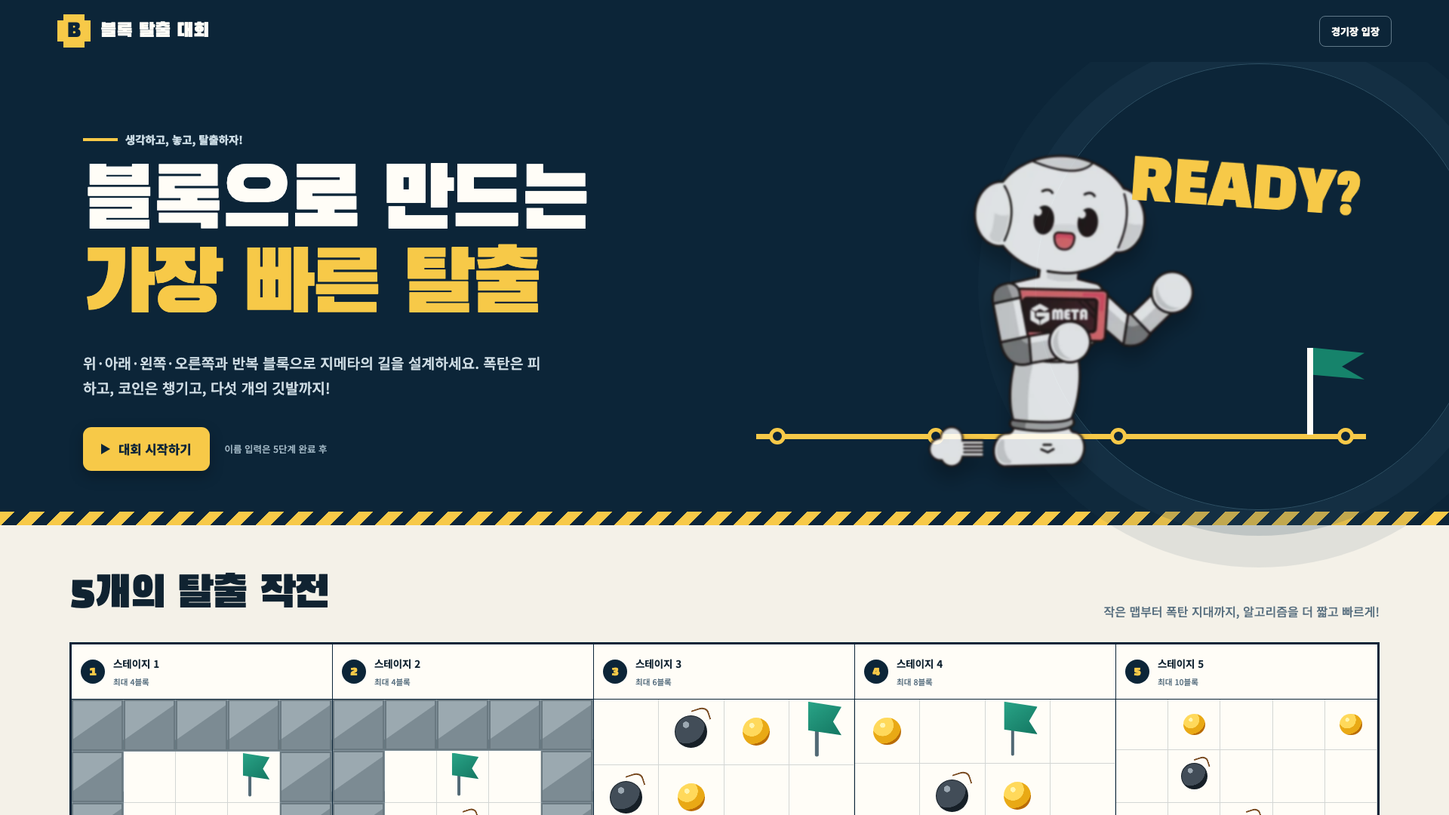
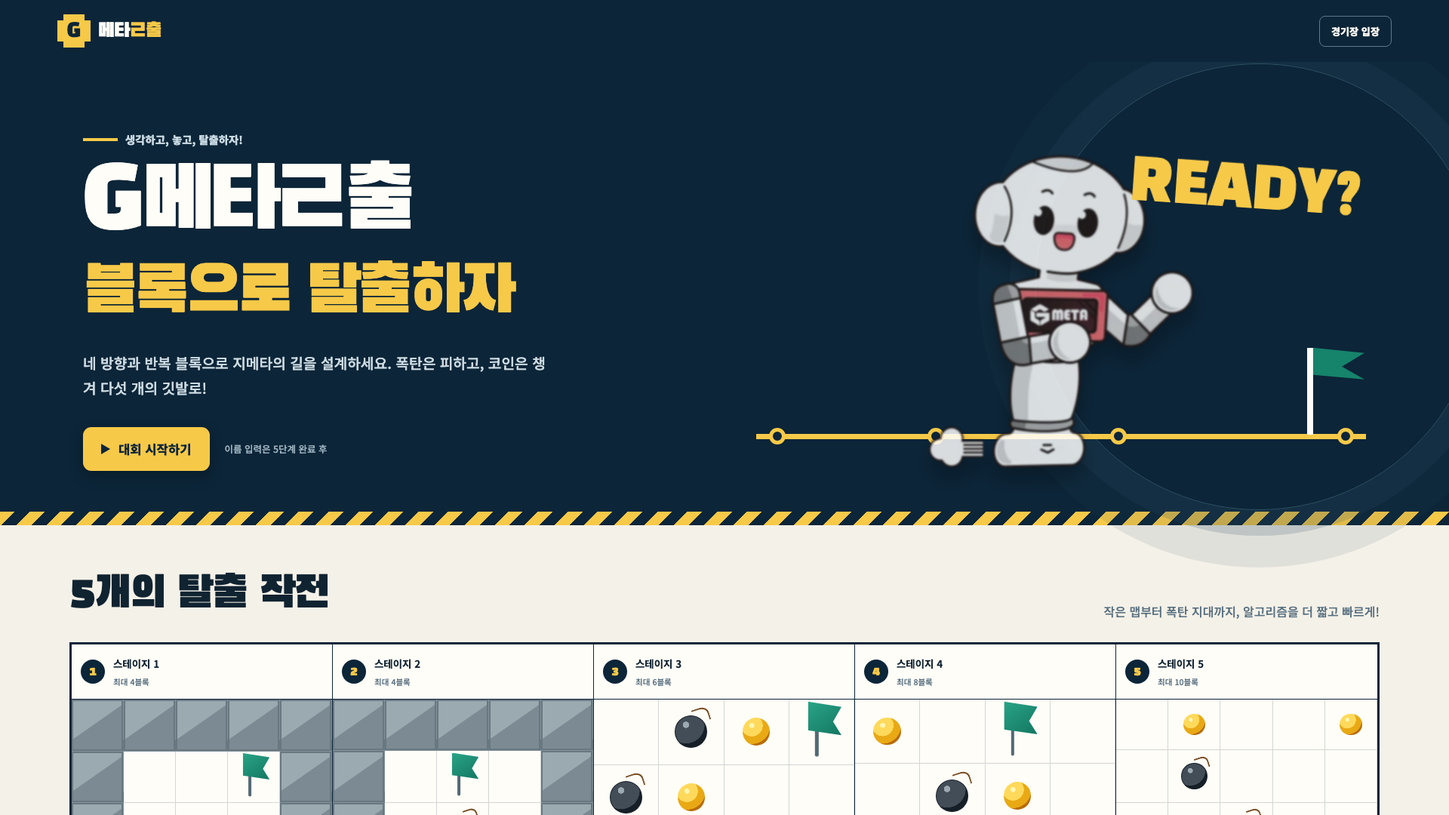
Rename game to G메타ㄹ출

diff --git a/public/home.css b/public/home.css
@@ -4,8 +4,8 @@
 @font-face{font-family:"Noto Sans KR";src:url("/fonts/noto-sans-kr-800.ttf") format("truetype");font-weight:800;font-display:swap}
 :root{--navy:#0c2538;--paper:#f4f1e8;--white:#fffdf7;--yellow:#f7c948;--coral:#e7523e;--blue:#2b78c5;--green:#16836b;--ink:#102331;--muted:#597080;--steel:#83929a;--line:#b9c3c7}
 *{box-sizing:border-box}html{background:var(--navy)}body{margin:0;min-height:100vh;overflow-x:hidden;background:var(--paper);color:var(--ink);font-family:"Noto Sans KR",sans-serif}a{color:inherit}a:focus-visible{outline:4px solid #55b7ff;outline-offset:4px}
-.home-header{height:82px;display:flex;align-items:center;justify-content:space-between;padding:0 clamp(22px,5vw,76px);background:var(--navy);color:var(--white)}.home-brand{display:flex;align-items:center;gap:13px;text-decoration:none;font:400 clamp(1.15rem,2vw,1.6rem) "Black Han Sans",sans-serif}.home-mark{display:grid;place-items:center;width:44px;height:44px;background:var(--yellow);color:var(--navy);clip-path:polygon(0 8px,8px 8px,8px 0,36px 0,36px 8px,44px 8px,44px 36px,36px 36px,36px 44px,8px 44px,8px 36px,0 36px)}.header-actions{display:flex;align-items:center;gap:10px}.header-link{padding:10px 15px;border:1px solid #617989;border-radius:8px;text-decoration:none;font-size:.82rem;font-weight:800;transition:background .16s ease,transform .16s ease}.header-link:hover{background:#173d55;transform:translateY(-1px)}.ranking-link{border-color:var(--yellow);color:var(--yellow)}
-main{overflow:hidden}.hero{position:relative;min-height:555px;display:grid;grid-template-columns:minmax(0,1.05fr) minmax(360px,.95fr);align-items:center;padding:clamp(50px,7vw,92px) clamp(24px,7vw,110px) 72px;background:var(--navy);color:var(--white);isolation:isolate}.hero::after{content:"";position:absolute;z-index:-1;inset:auto 0 0;height:18px;background:repeating-linear-gradient(135deg,var(--yellow) 0 14px,var(--navy) 14px 28px)}.hero-copy{position:relative;z-index:2;max-width:740px}.hero-line{display:flex;align-items:center;gap:10px;margin:0 0 20px;color:#c8d9e2;font-size:.9rem;font-weight:800}.hero-line span{width:46px;height:4px;background:var(--yellow)}h1{max-width:780px;margin:0;font:400 clamp(3.5rem,7.2vw,7.1rem)/.98 "Black Han Sans",sans-serif;letter-spacing:-.035em;text-wrap:balance}h1 em{color:var(--yellow);font-style:normal}.hero-description{max-width:620px;margin:27px 0 0;color:#ccdae2;font-size:clamp(1rem,1.5vw,1.2rem);line-height:1.75}.hero-actions{display:flex;align-items:center;gap:20px;margin-top:34px}.start-button{display:inline-flex;align-items:center;gap:11px;min-height:58px;padding:0 24px;border-radius:11px;background:var(--yellow);color:var(--navy);text-decoration:none;font-size:1.04rem;font-weight:900;box-shadow:0 7px 18px rgba(0,0,0,.25);transition:transform .18s cubic-bezier(.16,1,.3,1),filter .18s ease,box-shadow .18s ease}.start-button:hover{transform:translateY(-3px);filter:brightness(1.05);box-shadow:0 11px 25px rgba(0,0,0,.28)}.play-icon{width:0;height:0;border-top:7px solid transparent;border-bottom:7px solid transparent;border-left:12px solid currentColor}.start-note{color:#9fb5c2;font-size:.78rem}
+.home-header{height:82px;display:flex;align-items:center;justify-content:space-between;padding:0 clamp(22px,5vw,76px);background:var(--navy);color:var(--white)}.home-brand{display:flex;align-items:center;gap:10px;text-decoration:none;font:400 clamp(1.15rem,2vw,1.6rem) "Black Han Sans",sans-serif}.home-mark{display:grid;place-items:center;width:44px;height:44px;background:var(--yellow);color:var(--navy);clip-path:polygon(0 8px,8px 8px,8px 0,36px 0,36px 8px,44px 8px,44px 36px,36px 36px,36px 44px,8px 44px,8px 36px,0 36px)}.brand-wordmark{white-space:nowrap}.brand-wordmark em{color:var(--yellow);font-style:normal}.header-actions{display:flex;align-items:center;gap:10px}.header-link{padding:10px 15px;border:1px solid #617989;border-radius:8px;text-decoration:none;font-size:.82rem;font-weight:800;transition:background .16s ease,transform .16s ease}.header-link:hover{background:#173d55;transform:translateY(-1px)}.ranking-link{border-color:var(--yellow);color:var(--yellow)}
+main{overflow:hidden}.hero{position:relative;min-height:555px;display:grid;grid-template-columns:minmax(0,1.05fr) minmax(360px,.95fr);align-items:center;padding:clamp(50px,7vw,92px) clamp(24px,7vw,110px) 72px;background:var(--navy);color:var(--white);isolation:isolate}.hero::after{content:"";position:absolute;z-index:-1;inset:auto 0 0;height:18px;background:repeating-linear-gradient(135deg,var(--yellow) 0 14px,var(--navy) 14px 28px)}.hero-copy{position:relative;z-index:2;max-width:740px}.hero-line{display:flex;align-items:center;gap:10px;margin:0 0 20px;color:#c8d9e2;font-size:.9rem;font-weight:800}.hero-line span{width:46px;height:4px;background:var(--yellow)}h1{max-width:780px;margin:0;font:400 clamp(3.5rem,7.2vw,7.1rem)/.98 "Black Han Sans",sans-serif;letter-spacing:-.035em;text-wrap:balance}h1 em{color:var(--yellow);font-style:normal}.hero-tagline{display:inline-block;font-size:.76em;white-space:nowrap}.hero-description{max-width:620px;margin:27px 0 0;color:#ccdae2;font-size:clamp(1rem,1.5vw,1.2rem);line-height:1.75}.hero-actions{display:flex;align-items:center;gap:20px;margin-top:34px}.start-button{display:inline-flex;align-items:center;gap:11px;min-height:58px;padding:0 24px;border-radius:11px;background:var(--yellow);color:var(--navy);text-decoration:none;font-size:1.04rem;font-weight:900;box-shadow:0 7px 18px rgba(0,0,0,.25);transition:transform .18s cubic-bezier(.16,1,.3,1),filter .18s ease,box-shadow .18s ease}.start-button:hover{transform:translateY(-3px);filter:brightness(1.05);box-shadow:0 11px 25px rgba(0,0,0,.28)}.play-icon{width:0;height:0;border-top:7px solid transparent;border-bottom:7px solid transparent;border-left:12px solid currentColor}.start-note{color:#9fb5c2;font-size:.78rem}
 .partner-strip{display:flex;align-items:center;justify-content:center;gap:clamp(24px,4vw,58px);min-height:112px;padding:18px clamp(24px,6vw,92px);border-bottom:1px solid var(--line);background:var(--white)}.partner-strip>p{flex:0 0 auto;margin:0;color:var(--muted);font-size:.74rem;font-weight:800;letter-spacing:.12em}.partner-logos{display:flex;align-items:center;justify-content:center;gap:clamp(18px,2.4vw,38px);min-width:0}.partner-logos img{display:block;width:auto;max-width:min(21vw,250px);height:48px;object-fit:contain}.partner-logos img:nth-of-type(2){height:43px}.partner-logos img:nth-of-type(3){height:46px}.partner-logos span{width:1px;height:36px;background:var(--line)}
 .hero-visual{position:relative;align-self:stretch;display:grid;place-items:end center;min-height:410px}.hero-visual::before{content:"";position:absolute;right:-8vw;top:-90px;width:min(42vw,590px);aspect-ratio:1;border:1px solid #2e5064;border-radius:50%;box-shadow:0 0 0 34px rgba(46,80,100,.18),0 0 0 76px rgba(46,80,100,.1)}.hero-visual img{position:relative;z-index:2;width:min(100%,430px);max-height:430px;object-fit:contain;filter:drop-shadow(0 18px 12px rgba(0,0,0,.28));animation:ready 2.4s cubic-bezier(.16,1,.3,1) both}.hero-visual>p{position:absolute;z-index:3;right:1%;top:7%;margin:0;color:var(--yellow);font:400 clamp(2.2rem,5vw,4.8rem) "Black Han Sans",sans-serif;transform:rotate(4deg)}.route-line{position:absolute;z-index:1;bottom:42px;left:0;right:0;height:7px;background:var(--yellow)}.route-line i{position:absolute;top:50%;width:22px;height:22px;border:5px solid var(--yellow);border-radius:50%;background:var(--navy);transform:translateY(-50%)}.route-line i:nth-child(1){left:2%}.route-line i:nth-child(2){left:28%}.route-line i:nth-child(3){left:58%}.route-line i:nth-child(4){right:2%}.flag-sign{position:absolute;z-index:3;right:0;bottom:48px;width:78px;height:115px;border-left:8px solid var(--white)}.flag-sign span{position:absolute;left:0;top:0;width:68px;height:50px;background:var(--green);clip-path:polygon(0 0,100% 14%,56% 50%,100% 84%,0 72%)}
 .stage-rail{padding:56px clamp(24px,6vw,92px) 64px;background:var(--paper)}.rail-heading{display:flex;align-items:end;justify-content:space-between;gap:30px;margin-bottom:27px}.rail-heading h2{margin:0;font:400 clamp(2rem,3.8vw,3.6rem) "Black Han Sans",sans-serif;letter-spacing:-.025em}.rail-heading p{max-width:440px;margin:0;color:var(--muted);line-height:1.6}.stage-previews{display:grid;grid-template-columns:repeat(5,1fr);gap:0;margin:0;padding:0;list-style:none;border:3px solid var(--navy);background:var(--navy)}.stage-ticket{min-width:0;background:var(--white);border-right:1px solid var(--navy)}.stage-ticket:last-child{border-right:0}.ticket-label{display:grid;grid-template-columns:34px 1fr;grid-template-rows:auto auto;align-items:center;gap:0 9px;min-height:72px;padding:12px}.ticket-label>span{grid-row:1/3;display:grid;place-items:center;width:32px;height:32px;border-radius:50%;background:var(--navy);color:var(--yellow);font-family:"Black Han Sans"}.ticket-label strong{font-size:.84rem}.ticket-label small{color:var(--muted);font-size:.66rem}.mini-grid{--cols:5;display:grid;grid-template-columns:repeat(var(--cols),1fr);aspect-ratio:1;background:#dbe2df;border-top:1px solid var(--navy)}.mini-cell{position:relative;display:grid;place-items:center;background:#fffdf7;border-right:1px solid rgba(12,37,56,.18);border-bottom:1px solid rgba(12,37,56,.18)}.mini-cell.wall{background:var(--steel);box-shadow:inset 0 0 0 2px #6e7b82}.mini-cell.bomb::after{content:"";width:48%;height:48%;border-radius:50%;background:var(--coral)}.mini-cell.coin::after{content:"";width:43%;height:43%;border-radius:50%;background:var(--yellow);border:2px solid #c3820e}.mini-cell.flag::after{content:"";width:52%;height:63%;background:var(--green);clip-path:polygon(0 0,100% 15%,52% 49%,17% 42%,17% 100%,0 100%)}.mini-cell.start::after{content:"";width:55%;height:55%;border-radius:50%;background:var(--blue);box-shadow:inset 0 0 0 3px var(--white)}
@@ -13,7 +13,7 @@ main{overflow:hidden}.hero{position:relative;min-height:555px;display:grid;grid-
 footer{display:flex;justify-content:space-between;align-items:center;padding:24px clamp(24px,6vw,92px);background:var(--navy);color:#b9cbd5;font-size:.78rem}footer a{color:var(--yellow);font-weight:900;text-decoration:none}
 @keyframes ready{0%{opacity:0;transform:translateY(24px) scale(.97);filter:blur(8px) drop-shadow(0 18px 12px rgba(0,0,0,.28))}100%{opacity:1;transform:none;filter:blur(0) drop-shadow(0 18px 12px rgba(0,0,0,.28))}}
 @media(max-width:980px){.hero{grid-template-columns:1fr minmax(280px,.7fr);padding-inline:40px}.stage-previews{grid-template-columns:repeat(3,1fr)}.stage-ticket:nth-child(3){border-right:0}.stage-ticket:nth-child(n+4){border-top:1px solid var(--navy)}.rules{grid-template-columns:repeat(2,1fr)}.rules>div:nth-child(2){border-right:0}.rules>div:nth-child(n+3){border-top:1px solid var(--line)}}
-@media(max-width:680px){.home-header{height:68px;padding-inline:18px}.home-brand{font-size:1.05rem}.home-mark{width:38px;height:38px}.header-link{display:none}.hero{min-height:auto;display:flex;flex-direction:column;padding:48px 22px 52px}.hero-copy{width:100%;min-width:0}.hero-line{font-size:.78rem}h1{font-size:clamp(2.5rem,10.5vw,3rem);line-height:1.02}.hero-description{max-width:100%;font-size:.88rem;word-break:keep-all;overflow-wrap:anywhere}.hero-actions{align-items:flex-start;flex-direction:column;gap:12px}.hero-visual{width:100%;min-height:300px;margin-top:20px}.hero-visual img{width:min(82%,310px);max-height:290px}.hero-visual::before{right:-28vw;top:-20px;width:110vw}.hero-visual>p{right:6%;top:8%;font-size:1.9rem}.flag-sign{right:2%;height:88px;width:60px}.flag-sign span{width:52px;height:40px}.partner-strip{display:block;padding:20px 18px}.partner-strip>p{margin-bottom:14px;text-align:center}.partner-logos{gap:10px}.partner-logos img{max-width:29%;height:30px}.partner-logos img:nth-of-type(2){height:27px}.partner-logos img:nth-of-type(3){height:29px}.partner-logos span{height:26px}.stage-rail{padding:42px 18px}.rail-heading{display:block}.rail-heading p{margin-top:8px;font-size:.84rem}.stage-previews{grid-template-columns:repeat(2,1fr)}.stage-ticket:nth-child(2){border-right:0}.stage-ticket:nth-child(3){border-right:1px solid var(--navy)}.stage-ticket:nth-child(n+3){border-top:1px solid var(--navy)}.stage-ticket:nth-child(4){border-right:0}.stage-ticket:last-child{grid-column:1/-1;border-right:0}.stage-ticket:last-child .mini-grid{max-width:50%;margin:auto;border-left:1px solid var(--navy);border-right:1px solid var(--navy)}.rules{grid-template-columns:1fr;padding-inline:18px}.rules>div,.rules>div:first-child{border-left:0;border-right:0;border-top:1px solid var(--line)}.rules>div:first-child{border-top:0}footer{padding-inline:18px}}
+@media(max-width:680px){.home-header{height:68px;padding-inline:18px}.home-brand{font-size:1.05rem}.home-mark{width:38px;height:38px}.header-link{display:none}.hero{min-height:auto;display:flex;flex-direction:column;padding:48px 22px 52px}.hero-copy{width:100%;min-width:0}.hero-line{font-size:.78rem}h1{font-size:clamp(2.5rem,10.5vw,3rem);line-height:1.02}.hero-description{width:100%;max-width:calc(100vw - 44px);font-size:.88rem;word-break:normal;overflow-wrap:anywhere}.hero-actions{align-items:flex-start;flex-direction:column;gap:12px}.hero-visual{width:100%;min-height:300px;margin-top:20px}.hero-visual img{width:min(82%,310px);max-height:290px}.hero-visual::before{right:-28vw;top:-20px;width:110vw}.hero-visual>p{right:12%;top:8%;font-size:1.35rem}.flag-sign{right:2%;height:88px;width:60px}.flag-sign span{width:52px;height:40px}.partner-strip{display:block;padding:20px 18px}.partner-strip>p{margin-bottom:14px;text-align:center}.partner-logos{gap:10px}.partner-logos img{max-width:29%;height:30px}.partner-logos img:nth-of-type(2){height:27px}.partner-logos img:nth-of-type(3){height:29px}.partner-logos span{height:26px}.stage-rail{padding:42px 18px}.rail-heading{display:block}.rail-heading p{margin-top:8px;font-size:.84rem}.stage-previews{grid-template-columns:repeat(2,1fr)}.stage-ticket:nth-child(2){border-right:0}.stage-ticket:nth-child(3){border-right:1px solid var(--navy)}.stage-ticket:nth-child(n+3){border-top:1px solid var(--navy)}.stage-ticket:nth-child(4){border-right:0}.stage-ticket:last-child{grid-column:1/-1;border-right:0}.stage-ticket:last-child .mini-grid{max-width:50%;margin:auto;border-left:1px solid var(--navy);border-right:1px solid var(--navy)}.rules{grid-template-columns:1fr;padding-inline:18px}.rules>div,.rules>div:first-child{border-left:0;border-right:0;border-top:1px solid var(--line)}.rules>div:first-child{border-top:0}footer{padding-inline:18px}}
 @media(prefers-reduced-motion:reduce){*,*::before,*::after{animation-duration:.01ms!important;transition-duration:.01ms!important}}
 .partner-strip{gap:0}
 

diff --git a/public/styles.css b/public/styles.css
@@ -4,7 +4,7 @@
 @font-face{font-family:"Noto Sans KR";src:url("/fonts/noto-sans-kr-700.ttf") format("truetype");font-weight:700;font-display:swap}
 @font-face{font-family:"Noto Sans KR";src:url("/fonts/noto-sans-kr-800.ttf") format("truetype");font-weight:800;font-display:swap}
 :root{--navy:#0c2538;--paper:#f4f1e8;--white:#fffdf7;--yellow:#f7c948;--coral:#e7523e;--blue:#2b78c5;--green:#16836b;--ink:#102331;--muted:#597080;--line:#b9c3c7;--shadow:0 12px 24px rgba(2,24,39,.16)}*{box-sizing:border-box}html{background:var(--navy)}body{margin:0;min-height:100vh;color:var(--ink);font-family:"Noto Sans KR",sans-serif;background:linear-gradient(180deg,var(--navy) 0 96px,#dce4df 96px 100%)}button,input{font:inherit}button{cursor:pointer}button:focus-visible,input:focus-visible{outline:4px solid #55b7ff;outline-offset:3px}[hidden]{display:none!important}
-.scorebar{height:96px;display:grid;grid-template-columns:minmax(220px,1fr) auto minmax(160px,1fr);align-items:center;gap:24px;padding:14px clamp(18px,3vw,48px);color:var(--white)}.brand{display:flex;align-items:center;gap:13px;color:inherit;text-decoration:none;font:400 clamp(1.25rem,2.3vw,2rem) "Black Han Sans",sans-serif;letter-spacing:-.02em}.brand-mark{display:grid;place-items:center;width:46px;height:46px;background:var(--yellow);color:var(--navy);clip-path:polygon(0 8px,8px 8px,8px 0,38px 0,38px 8px,46px 8px,46px 38px,38px 38px,38px 46px,8px 46px,8px 38px,0 38px)}.race-stats{display:flex;align-items:center;gap:clamp(18px,3vw,42px)}.race-stats span{display:grid;gap:2px;min-width:68px;text-align:center}.race-stats small{font-size:.75rem;color:#bad0dd}.race-stats strong{font-size:1.05rem;font-variant-numeric:tabular-nums}.leader-button,.sound-toggle,.text-button,.close-button{border:0;background:none;color:inherit;font-weight:800}.leader-button{justify-self:end;border:1px solid #5d7786;padding:11px 16px;border-radius:8px}.leader-button:hover{background:#173d55}
+.scorebar{height:96px;display:grid;grid-template-columns:minmax(220px,1fr) auto minmax(160px,1fr);align-items:center;gap:24px;padding:14px clamp(18px,3vw,48px);color:var(--white)}.brand{display:flex;align-items:center;gap:10px;color:inherit;text-decoration:none;font:400 clamp(1.25rem,2.3vw,2rem) "Black Han Sans",sans-serif;letter-spacing:-.02em}.brand-mark{display:grid;place-items:center;width:46px;height:46px;background:var(--yellow);color:var(--navy);clip-path:polygon(0 8px,8px 8px,8px 0,38px 0,38px 8px,46px 8px,46px 38px,38px 38px,38px 46px,8px 46px,8px 38px,0 38px)}.brand-wordmark{white-space:nowrap}.brand-wordmark em{color:var(--yellow);font-style:normal}.race-stats{display:flex;align-items:center;gap:clamp(18px,3vw,42px)}.race-stats span{display:grid;gap:2px;min-width:68px;text-align:center}.race-stats small{font-size:.75rem;color:#bad0dd}.race-stats strong{font-size:1.05rem;font-variant-numeric:tabular-nums}.leader-button,.sound-toggle,.text-button,.close-button{border:0;background:none;color:inherit;font-weight:800}.leader-button{justify-self:end;border:1px solid #5d7786;padding:11px 16px;border-radius:8px}.leader-button:hover{background:#173d55}
 .workspace{width:min(1500px,calc(100% - 32px));margin:0 auto 32px;display:grid;grid-template-columns:minmax(220px,.72fr) minmax(440px,1.5fr) minmax(260px,.82fr);min-height:calc(100vh - 128px);background:var(--paper);box-shadow:var(--shadow)}.command-bay,.program-panel{padding:26px}.command-bay{border-right:1px solid var(--line)}.program-panel{border-left:1px solid var(--line);display:flex;flex-direction:column;min-height:0}.panel-heading h1,.program-head h2{margin:0;font:400 1.7rem "Black Han Sans",sans-serif;letter-spacing:-.02em}.panel-heading p,.program-head p{margin:4px 0 22px;color:var(--muted);font-size:.9rem}
 .command-list{display:grid;gap:12px}.command{display:flex;align-items:center;gap:13px;width:100%;min-height:68px;border:0;border-radius:12px;padding:10px 13px;text-align:left;color:white;box-shadow:0 5px 0 rgba(12,37,56,.28);transition:transform .16s ease,filter .16s ease}.command:hover{transform:translateY(-2px);filter:brightness(1.06)}.command:active{transform:translateY(3px);box-shadow:0 2px 0 rgba(12,37,56,.28)}.command.forward{background:var(--blue)}.command.turn-left,.command.turn-right{background:var(--green)}.command-icon{display:grid;place-items:center;width:42px;height:42px;border-radius:9px;background:rgba(255,255,255,.15);font-size:1.8rem;font-weight:900}.command span:last-child{display:grid}.command b{font-size:1rem}.command small{font-size:.72rem;color:rgba(255,255,255,.82)}.mission-note{margin-top:28px;padding:17px 0;border-top:2px dashed #83949d;border-bottom:2px dashed #83949d}.mission-note strong{font-size:.95rem}.mission-note p{margin:7px 0 0;color:var(--muted);font-size:.82rem;line-height:1.55}.legend{display:grid;gap:9px;margin-top:18px;font-size:.78rem;font-weight:700}.legend span{display:flex;align-items:center;gap:9px}.legend i{width:18px;height:18px;display:inline-grid}.legend-coin{border-radius:50%;background:var(--yellow);border:3px solid #bd7c0c}.legend-bomb{border-radius:50%;background:var(--coral)}.legend-flag{background:var(--green);clip-path:polygon(15% 0,95% 18%,55% 50%,15% 44%,15% 100%,0 100%,0 0)}
 .map-panel{display:flex;flex-direction:column;padding:20px clamp(18px,2vw,32px) 16px;background:#e8ebe5}.map-topline{display:flex;justify-content:space-between;align-items:center;margin-bottom:14px}.route-status{display:flex;align-items:center;gap:9px;font-weight:800;font-size:.9rem}.route-status i{width:11px;height:11px;background:var(--yellow);border-radius:50%}.route-status.running i{animation:pulse .8s steps(2,end) infinite}.sound-toggle{color:var(--muted);font-size:.8rem}.game-grid{--cols:7;display:grid;grid-template-columns:repeat(var(--cols),1fr);width:min(100%,720px);margin:auto;aspect-ratio:1;background:var(--navy);border:12px solid var(--navy);box-shadow:0 9px 0 #80909a;overflow:hidden}.cell{position:relative;display:grid;place-items:center;border-right:1px solid #c7ceca;border-bottom:1px solid #c7ceca;background:var(--white)}.cell.wall{background:#83929a;box-shadow:inset 0 0 0 5px #6e7b82}.cell.bomb::after{content:"";width:45%;height:45%;border-radius:50%;background:var(--coral);box-shadow:inset -5px -5px 0 rgba(74,20,18,.18)}.cell.bomb::before{content:"";position:absolute;width:22%;height:7%;background:var(--navy);transform:translate(75%,-260%) rotate(-35deg)}.cell.coin::after{content:"";width:42%;height:42%;border-radius:50%;background:var(--yellow);border:clamp(3px,.4vw,6px) solid #d38b0b;box-shadow:inset 0 0 0 3px #ffe58c}.cell.flag::after{content:"";width:48%;height:62%;background:var(--green);clip-path:polygon(0 0,100% 15%,52% 49%,17% 42%,17% 100%,0 100%)}.player{position:absolute;z-index:4;width:88%;height:88%;object-fit:contain;filter:drop-shadow(0 4px 2px rgba(12,37,56,.2));transition:transform .22s cubic-bezier(.16,1,.3,1)}.player.step{animation:step .28s ease-out}.player.hit{animation:shake .32s ease-in-out}.map-caption{display:flex;justify-content:space-between;margin-top:16px;color:var(--muted);font-size:.7rem;font-weight:800}.map-caption span:nth-child(2){color:var(--navy)}

diff --git a/public/index.html b/public/index.html
@@ -1,8 +1,8 @@
 <!doctype html>
-<html lang="ko"><head><meta charset="utf-8"><meta name="viewport" content="width=device-width,initial-scale=1"><meta name="theme-color" content="#0c2538"><meta name="description" content="지메타와 함께 폭탄을 피하고 코인을 모으며 배우는 5단계 블록 코딩 대회"><link rel="icon" href="/favicon.svg" type="image/svg+xml"><link rel="stylesheet" href="/home.css"><title>블록 탈출 대회</title></head>
+<html lang="ko"><head><meta charset="utf-8"><meta name="viewport" content="width=device-width,initial-scale=1"><meta name="theme-color" content="#0c2538"><meta name="description" content="G메타ㄹ출: 지메타와 함께 폭탄을 피하고 코인을 모으며 배우는 5단계 블록 코딩 대회"><link rel="icon" href="/favicon.svg" type="image/svg+xml"><link rel="stylesheet" href="/home.css"><title>G메타ㄹ출</title></head>
 <body>
 <header class="home-header">
-  <a class="home-brand" href="/" aria-label="블록 탈출 대회 메인"><span class="home-mark" aria-hidden="true">B</span><span>블록 탈출 대회</span></a>
+  <a class="home-brand" href="/" aria-label="G메타ㄹ출 메인"><span class="home-mark" aria-hidden="true">G</span><span class="brand-wordmark" aria-hidden="true">메타<em>ㄹ출</em></span></a>
   <nav class="header-actions" aria-label="주요 메뉴">
     <a class="header-link ranking-link" href="/ranking.html">대회 순위표</a>
     <a class="header-link" href="/game.html">경기장 입장</a>
@@ -12,8 +12,8 @@
   <section class="hero" aria-labelledby="heroTitle">
     <div class="hero-copy">
       <p class="hero-line"><span aria-hidden="true"></span> 생각하고, 놓고, 탈출하자!</p>
-      <h1 id="heroTitle">블록으로 만드는<br><em>가장 빠른 탈출</em></h1>
-      <p class="hero-description">위·아래·왼쪽·오른쪽과 반복 블록으로 지메타의 길을 설계하세요. 폭탄은 피하고, 코인은 챙기고, 다섯 개의 깃발까지!</p>
+      <h1 id="heroTitle">G메타ㄹ출<br><em class="hero-tagline">블록으로 탈출하자</em></h1>
+      <p class="hero-description">네 방향과 반복 블록으로 지메타의 길을 설계하세요. 폭탄은 피하고, 코인은 챙겨 다섯 개의 깃발로!</p>
       <div class="hero-actions"><a class="start-button" href="/game.html"><span class="play-icon" aria-hidden="true"></span>대회 시작하기</a><a class="tutorial-button" href="/tutorial.html"><span aria-hidden="true">＋</span>튜토리얼</a></div>
     </div>
     <div class="hero-visual" aria-label="출발선에 선 지메타">

diff --git a/public/tutorial.html b/public/tutorial.html
@@ -7,11 +7,11 @@
   <link rel="icon" href="/favicon.svg" type="image/svg+xml">
   <link rel="stylesheet" href="/styles.css">
   <link rel="stylesheet" href="/tutorial.css">
-  <title>튜토리얼 · 블록 탈출 대회</title>
+  <title>튜토리얼 · G메타ㄹ출</title>
 </head>
 <body class="game-page tutorial-page">
   <header class="scorebar">
-    <a class="brand" href="/"><span class="brand-mark" aria-hidden="true">B</span><span>블록 조립 연습</span></a>
+    <a class="brand" href="/" aria-label="G메타ㄹ출 메인으로"><span class="brand-mark" aria-hidden="true">G</span><span>블록 조립 연습</span></a>
     <div class="game-partners" aria-label="기관 로고"><img src="/assets/partners/seodaemun-gu.png" alt="서대문구"><img src="/assets/partners/korea-youth-foundation.png" alt="한국청소년재단"><img src="/assets/partners/gmeta-career-network.jpg" alt="G-META 가재울청소년센터"></div>
     <div class="race-stats" aria-label="연습 정보"><span><small>모드</small><strong>자유 연습</strong></span><span><small>코인</small><strong id="coinCount">0 / 4</strong></span></div>
     <a class="leader-button tutorial-exit" href="/game.html">대회 시작하기</a>

diff --git a/public/ranking.html b/public/ranking.html
@@ -1,8 +1,8 @@
 <!doctype html>
-<html lang="ko"><head><meta charset="utf-8"><meta name="viewport" content="width=device-width,initial-scale=1"><meta name="theme-color" content="#081c2d"><link rel="icon" href="/favicon.svg" type="image/svg+xml"><link rel="stylesheet" href="/ranking.css"><title>대회 순위 발표 · 블록 탈출 대회</title></head>
+<html lang="ko"><head><meta charset="utf-8"><meta name="viewport" content="width=device-width,initial-scale=1"><meta name="theme-color" content="#081c2d"><link rel="icon" href="/favicon.svg" type="image/svg+xml"><link rel="stylesheet" href="/ranking.css"><title>대회 순위 발표 · G메타ㄹ출</title></head>
 <body>
   <header class="ceremony-header">
-    <a href="/" aria-label="메인으로 돌아가기"><span class="brand-mark" aria-hidden="true">B</span><strong>블록 탈출 대회</strong></a>
+    <a href="/" aria-label="G메타ㄹ출 메인으로 돌아가기"><span class="brand-mark" aria-hidden="true">G</span><strong>메타ㄹ출</strong></a>
     <span>대회 순위 발표</span>
   </header>
   <main class="ceremony-stage">

diff --git a/public/admin.html b/public/admin.html
@@ -6,11 +6,11 @@
   <meta name="theme-color" content="#081c2d">
   <link rel="icon" href="/favicon.svg" type="image/svg+xml">
   <link rel="stylesheet" href="/admin.css">
-  <title>순위표 관리 · 블록 탈출 대회</title>
+  <title>순위표 관리 · G메타ㄹ출</title>
 </head>
 <body>
   <header class="admin-header">
-    <a class="admin-brand" href="/"><span class="brand-mark" aria-hidden="true">B</span><strong>블록 탈출 대회</strong></a>
+    <a class="admin-brand" href="/" aria-label="G메타ㄹ출 메인으로"><span class="brand-mark" aria-hidden="true">G</span><strong>메타ㄹ출</strong></a>
     <a class="ranking-link" href="/ranking.html">순위 발표 화면</a>
   </header>
 

diff --git a/DESIGN.md b/DESIGN.md
@@ -1,5 +1,5 @@
 ---
-name: "블록 탈출 대회"
+name: "G메타ㄹ출"
 description: "명령 블록으로 지메타의 안전한 탈출 경로를 설계하는 코딩 경기 작전판"
 colors:
   operations-navy: "#0c2538"
@@ -85,7 +85,7 @@ components:
     height: "48px"
 ---
 
-# Design System: 블록 탈출 대회
+# Design System: G메타ㄹ출
 
 ## Overview
 

diff --git a/README.md b/README.md
@@ -1,4 +1,4 @@
-# 블록 탈출 대회
+# G메타ㄹ출
 
 아이들이 명령 블록으로 G-META 캐릭터의 이동 경로를 설계하는 5단계 웹게임입니다. 폭탄을 피하고 코인을 모아 깃발에 도착하면 서버가 경로를 다시 검증하고 점수를 계산합니다.
 

diff --git a/HANDOFF.md b/HANDOFF.md
@@ -1,4 +1,4 @@
-# 블록 탈출 대회 프로젝트 전달사항
+# G메타ㄹ출 프로젝트 전달사항
 
 ## 1. 프로젝트 목적
 
